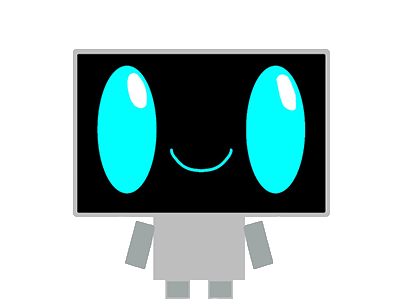
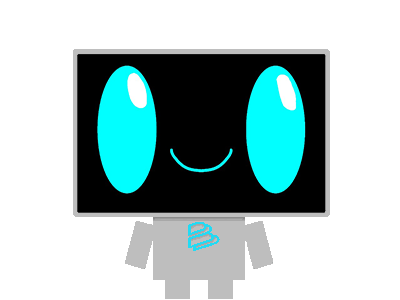
Adição da ferramenta de timer

Changed region(s): [[0.3, 0.72, 0.69, 0.9], [0.51, 0.93, 0.6, 0.99], [0.42, 0.93, 0.48, 0.99]]

diff --git a/main.py b/main.py
@@ -5,6 +5,8 @@ from PIL import Image, ImageTk
 import config_read as conf
 import icone as icon
 import gemini_ia as gem_ia
+import time
+import threading
 
 class Assistente:
     def __init__(self):
@@ -71,26 +73,42 @@ class Assistente:
             self.gerar_menu()
 
     def gerar_menu(self):
-        balao_img = Image.open('imgs/saida_logo.png')
-        self.image_close = ImageTk.PhotoImage(balao_img.resize((50, 50)))
-        self.close_label = tk.Label(self.root, image=self.image_close, bg="black")
-        self.close_label.place(x=300, y=120)
-        self.close_label.bind('<Button-1>', self.click_fechar)
-
         ia_img = Image.open('imgs/IA_API_logo.png')
         self.ia_imagem = ImageTk.PhotoImage(ia_img.resize((50, 50)))
-        self.ia_label = tk.Label(self.root, image=self.ia_imagem, bg="black")
+        self.ia_label = tk.Label(self.root, image=self.ia_imagem, bg='black')
         self.ia_label.place(x=50, y=120)
         self.ia_label.bind('<Button-1>', self.ia_interface)
+
+        timer_img = Image.open('imgs/Timer_logo.png')
+        self.timer_imagem = ImageTk.PhotoImage(timer_img.resize((50,50)))
+        self.timer_label = tk.Label(self.root, image=self.timer_imagem, bg='black')
+        self.timer_label.place(x=165, y=120)
+        self.timer_label.bind('<Button-1>', self.timer_interface)
+
+        balao_img = Image.open('imgs/saida_logo.png')
+        self.image_close = ImageTk.PhotoImage(balao_img.resize((50, 50)))
+        self.close_label = tk.Label(self.root, image=self.image_close, bg='black')
+        self.close_label.place(x=300, y=120)
+        self.close_label.bind('<Button-1>', self.click_fechar)
 
     def destruir_menu(self):
         self.ia_label.destroy()
         self.close_label.destroy()
+        self.timer_label.destroy()
         if hasattr(self, 'ia_input'):
             self.ia_input.destroy()
             self.botao_enviar.destroy()
             self.painel_msg.destroy()
             self.botao_sair.destroy()
+        elif hasattr(self, 'timer_bar'):
+            self.botao_sair.destroy()
+            self.timer_bar.destroy()
+            self.input_enviar.destroy()
+            self.input_minutos.destroy()
+            self.input_segundos.destroy()
+            self.label_tempo.destroy()
+            if hasattr(self, 'botao_timer_off'):
+                self.botao_timer_off.destroy()
 
     # imagens / (futuramente) sprites
     def colocar_imagem_1(self):
@@ -172,6 +190,52 @@ class Assistente:
         self.adicionar_mensagem_painel(resposta)
         self.adicionar_mensagem_txt(resposta)
 
+    def timer_interface(self, event):
+        self.destruir_menu()
+        self.botao_sair = tk.Button(self.root, text='X', bg='black', fg='white', height=1, command=self.fechar_funcao)
+        self.botao_sair.place(x=10, y=30)
+        self.timer_bar = ttk.Progressbar(self.root, orient='horizontal', length=350)
+        self.timer_bar.place(x=23, y=120)
+        self.input_minutos = tk.Entry(self.root, width=3)
+        self.input_minutos.place(x=140, y=180)
+        self.label_tempo = tk.Label(self.root, text=':', fg='white', bg='black')
+        self.label_tempo.place(x=164, y=178)
+        self.input_segundos = tk.Entry(self.root, width=3)
+        self.input_segundos.place(x=175, y=180)
+        self.input_enviar = tk.Button(self.root, text='Iniciar', command=self.iniciar_timer_thread)
+        self.input_enviar.place(x=210, y=177)
+
+    def iniciar_timer_thread(self):
+        timer = threading.Thread(target=self.iniciar_timer)
+        timer.start()
+
+    def iniciar_timer(self):
+        min = self.input_minutos.get()
+        min = self.verificar_tempo_soum(min)
+        seg = self.input_segundos.get()
+        seg = self.verificar_tempo_soum(seg)
+        self.input_minutos.delete(0, tk.END)
+        self.input_segundos.delete(0, tk.END)
+        tempo_em_segundos = ((min * 60) + seg)
+
+        for s in range(tempo_em_segundos):
+            time.sleep(1)
+            self.timer_bar['value']+=100/tempo_em_segundos
+            self.root.update_idletasks()
+        self.botao_timer_off = tk.Button(self.root, text='Parar', command=self.parar_alarme_timer, width=10)
+        self.botao_timer_off.place(x=150, y=130)
+
+    def parar_alarme_timer(self):
+        self.botao_timer_off.destroy()
+        self.timer_bar['value'] = 0
+
+    def verificar_tempo_soum(self, string):
+        if string == '':
+            return 0
+        for char in string:
+            if not char.isdigit():
+                return 0
+        return int(string)
 
 def main():
     Assistente()
